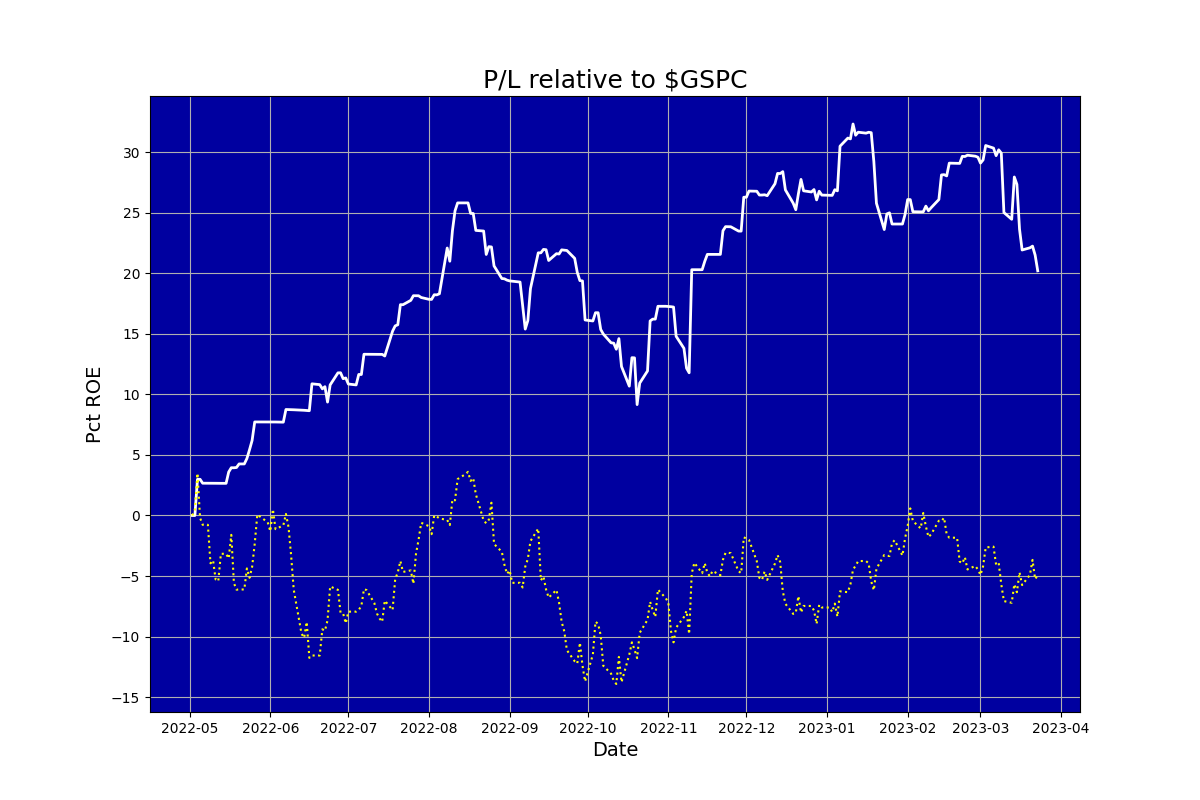
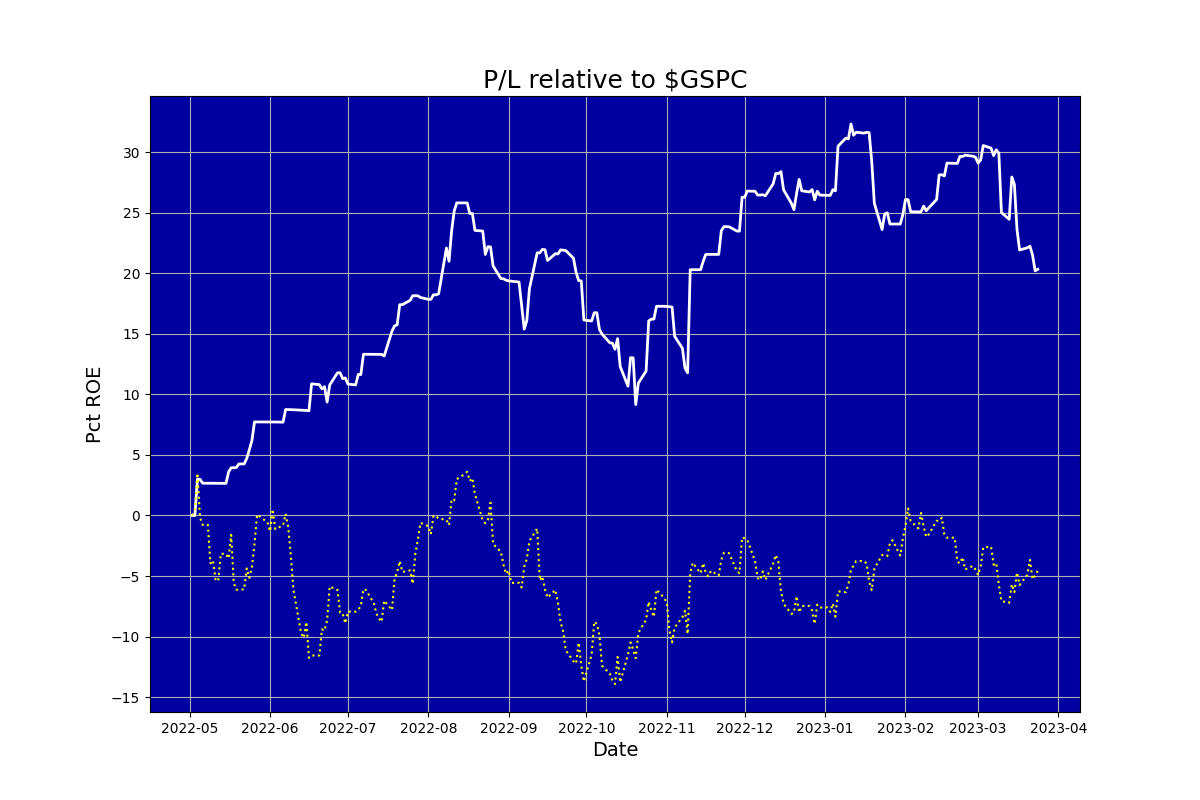
Updated

diff --git a/ig_report.html b/ig_report.html
@@ -1,1 +1,1 @@
-<html><body><center><h1>Auriel (never knowingly overbought)</h1></center><table cols=2><tr><td><img src=ig_pl.png></td><td><table cols=2><tr><td colspan=2><b><br>Snapshot</b></td></tr><tr><td>Last updated:&nbsp;&nbsp;&nbsp;</td><td>2023-03-23 15:53</td></tr><tr><td>Margin:&nbsp;&nbsp;&nbsp;</td><td>0.24</td></tr><tr><td>Cushion:&nbsp;&nbsp;&nbsp;</td><td>-10111.53</td></tr><tr><td>Last closed trade:&nbsp;&nbsp;&nbsp;</td><td>2023-03-23</td></tr><tr><td colspan=2><b><br>Positions</b></td></tr><tr><td>Mean days to new high:&nbsp;&nbsp;&nbsp;</td><td>11.26</td></tr><tr><td colspan=2><b><br>Trades</b></td></tr><tr><td>Traded days:&nbsp;&nbsp;&nbsp;</td><td>236</td></tr><tr><td>Profitable days pct:&nbsp;&nbsp;&nbsp;</td><td>36.44</td></tr><tr><td>Days beat S&P pct:&nbsp;&nbsp;&nbsp;</td><td>56.00</td></tr><tr><td>Profitable months pct:&nbsp;&nbsp;&nbsp;</td><td>72.73</td></tr><tr><td colspan=2><b><br>Performance</b></td></tr><tr><td>Pct median monthly ROE:&nbsp;&nbsp;&nbsp;</td><td>1.43</td></tr><tr><td>Pct annualised ROE:&nbsp;&nbsp;&nbsp;</td><td>21.41</td></tr><tr><td colspan=2><b><br>Risk</b></td></tr><tr><td>Volatility pct:&nbsp;&nbsp;&nbsp;</td><td>20.09</td></tr><tr><td>Benchmark volatility pct:&nbsp;&nbsp;&nbsp;</td><td>23.21</td></tr><tr><td>Sharpe ratio (RFR 5.0%):&nbsp;&nbsp;&nbsp;</td><td>0.90</td></tr><tr><td>Sortino ratio (RFR 5.0%):&nbsp;&nbsp;&nbsp;</td><td>1.28</td></tr><tr><td>Calmar ratio:&nbsp;&nbsp;&nbsp;</td><td>1.29</td></tr><tr><td>Worst drawdown pct:&nbsp;&nbsp;&nbsp;</td><td>-0.17</td></tr><tr><td>Recovery days from worst drawdown:&nbsp;&nbsp;&nbsp;</td><td>29.00</td></tr><tr><td>Beat benchmark +ve periods pct:&nbsp;&nbsp;&nbsp;</td><td>75.67</td></tr><tr><td>Beat benchmark -ve periods pct:&nbsp;&nbsp;&nbsp;</td><td>92.23</td></tr><tr><td>Correlation with benchmark:&nbsp;&nbsp;&nbsp;</td><td>0.38</td></tr></table></td></tr></table></body></html>
+<html><body><center><h1>Auriel (never knowingly overbought)</h1></center><table cols=2><tr><td><img src=ig_pl.png></td><td><table cols=2><tr><td colspan=2><b><br>Snapshot</b></td></tr><tr><td>Last updated:&nbsp;&nbsp;&nbsp;</td><td>2023-03-24 15:56</td></tr><tr><td>Margin:&nbsp;&nbsp;&nbsp;</td><td>0.22</td></tr><tr><td>Cushion:&nbsp;&nbsp;&nbsp;</td><td>-9954.90</td></tr><tr><td>Last closed trade:&nbsp;&nbsp;&nbsp;</td><td>2023-03-24</td></tr><tr><td colspan=2><b><br>Positions</b></td></tr><tr><td>Mean days to new high:&nbsp;&nbsp;&nbsp;</td><td>11.27</td></tr><tr><td colspan=2><b><br>Trades</b></td></tr><tr><td>Traded days:&nbsp;&nbsp;&nbsp;</td><td>237</td></tr><tr><td>Profitable days pct:&nbsp;&nbsp;&nbsp;</td><td>36.71</td></tr><tr><td>Days beat S&P pct:&nbsp;&nbsp;&nbsp;</td><td>55.75</td></tr><tr><td>Profitable months pct:&nbsp;&nbsp;&nbsp;</td><td>72.73</td></tr><tr><td colspan=2><b><br>Performance</b></td></tr><tr><td>Pct median monthly ROE:&nbsp;&nbsp;&nbsp;</td><td>1.43</td></tr><tr><td>Pct annualised ROE:&nbsp;&nbsp;&nbsp;</td><td>21.45</td></tr><tr><td colspan=2><b><br>Risk</b></td></tr><tr><td>Volatility pct:&nbsp;&nbsp;&nbsp;</td><td>20.05</td></tr><tr><td>Benchmark volatility pct:&nbsp;&nbsp;&nbsp;</td><td>23.21</td></tr><tr><td>Sharpe ratio (RFR 5.0%):&nbsp;&nbsp;&nbsp;</td><td>0.91</td></tr><tr><td>Sortino ratio (RFR 5.0%):&nbsp;&nbsp;&nbsp;</td><td>1.28</td></tr><tr><td>Calmar ratio:&nbsp;&nbsp;&nbsp;</td><td>1.29</td></tr><tr><td>Worst drawdown pct:&nbsp;&nbsp;&nbsp;</td><td>-0.17</td></tr><tr><td>Recovery days from worst drawdown:&nbsp;&nbsp;&nbsp;</td><td>29.00</td></tr><tr><td>Beat benchmark +ve periods pct:&nbsp;&nbsp;&nbsp;</td><td>75.40</td></tr><tr><td>Beat benchmark -ve periods pct:&nbsp;&nbsp;&nbsp;</td><td>91.92</td></tr><tr><td>Correlation with benchmark:&nbsp;&nbsp;&nbsp;</td><td>0.36</td></tr></table></td></tr></table></body></html>
